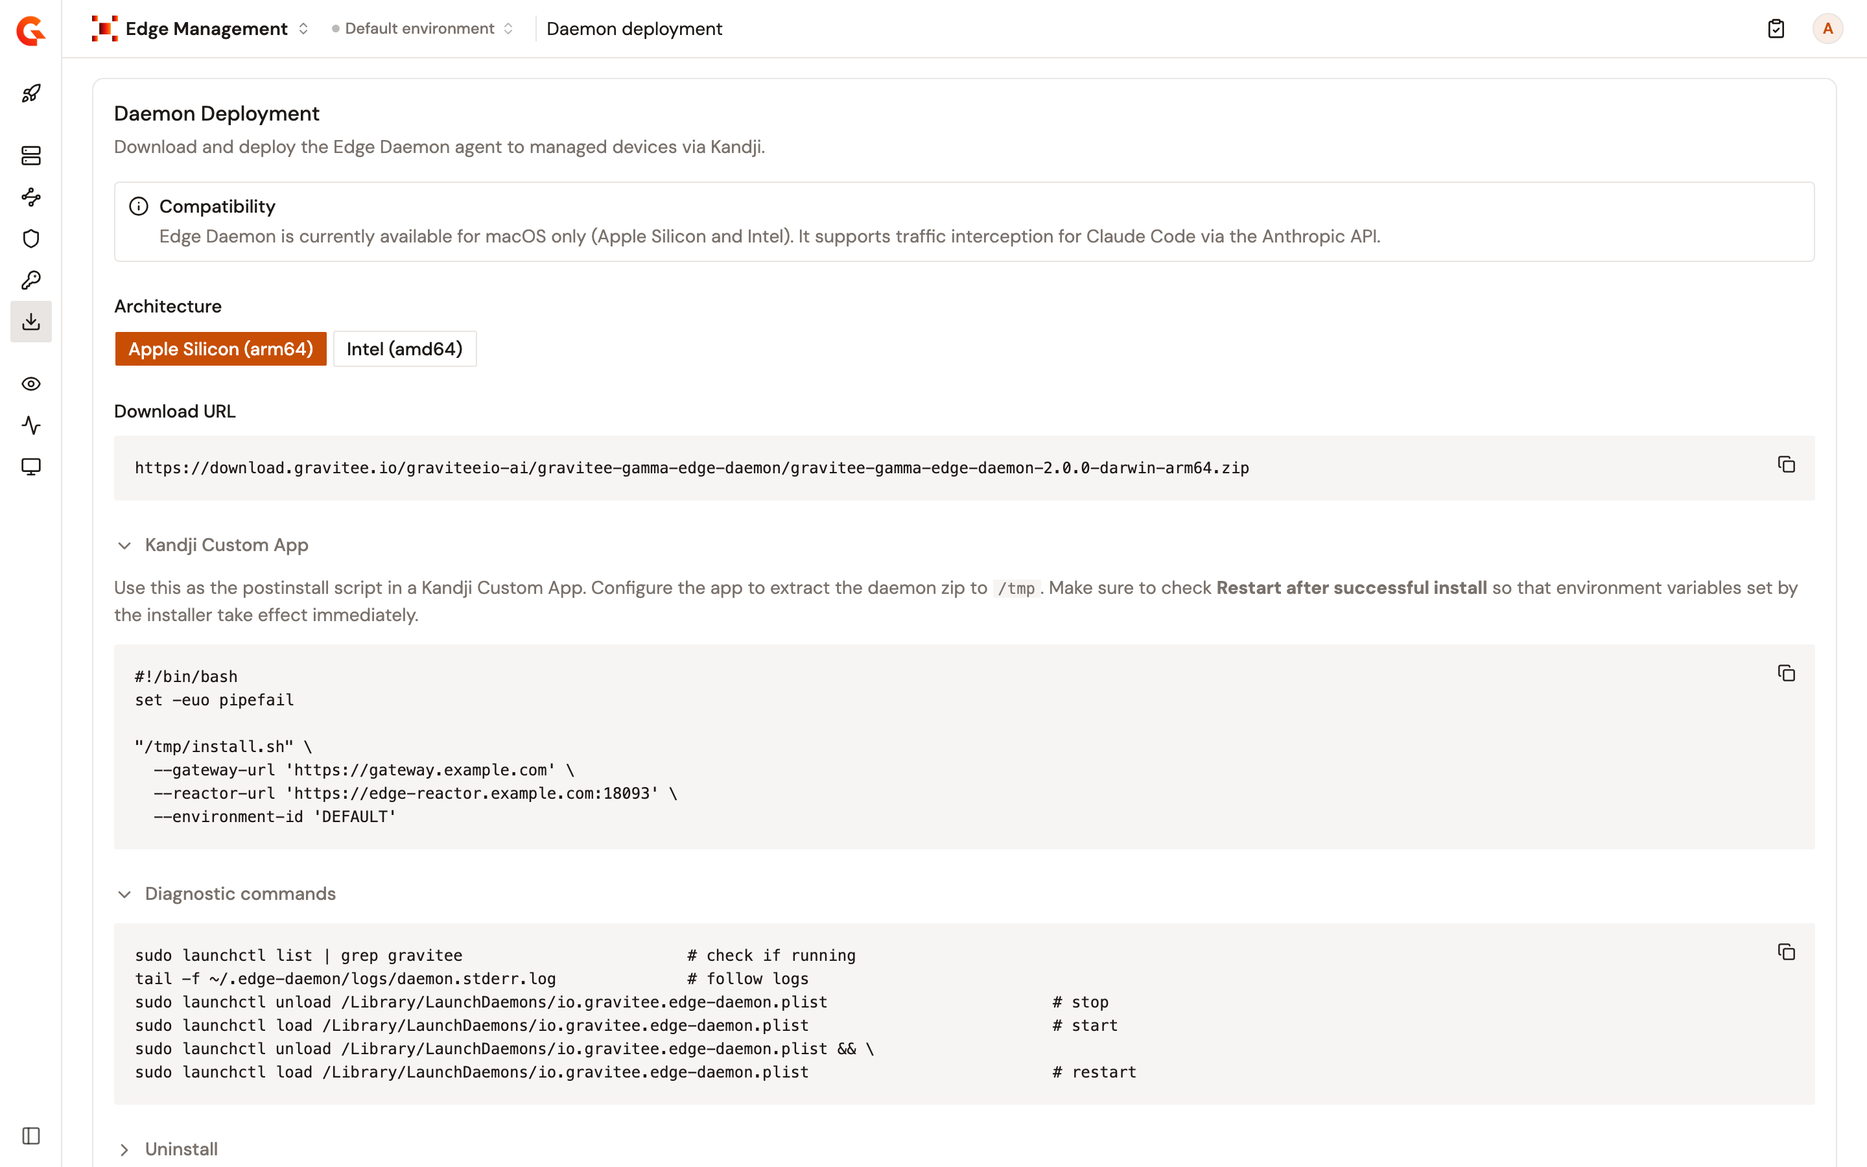
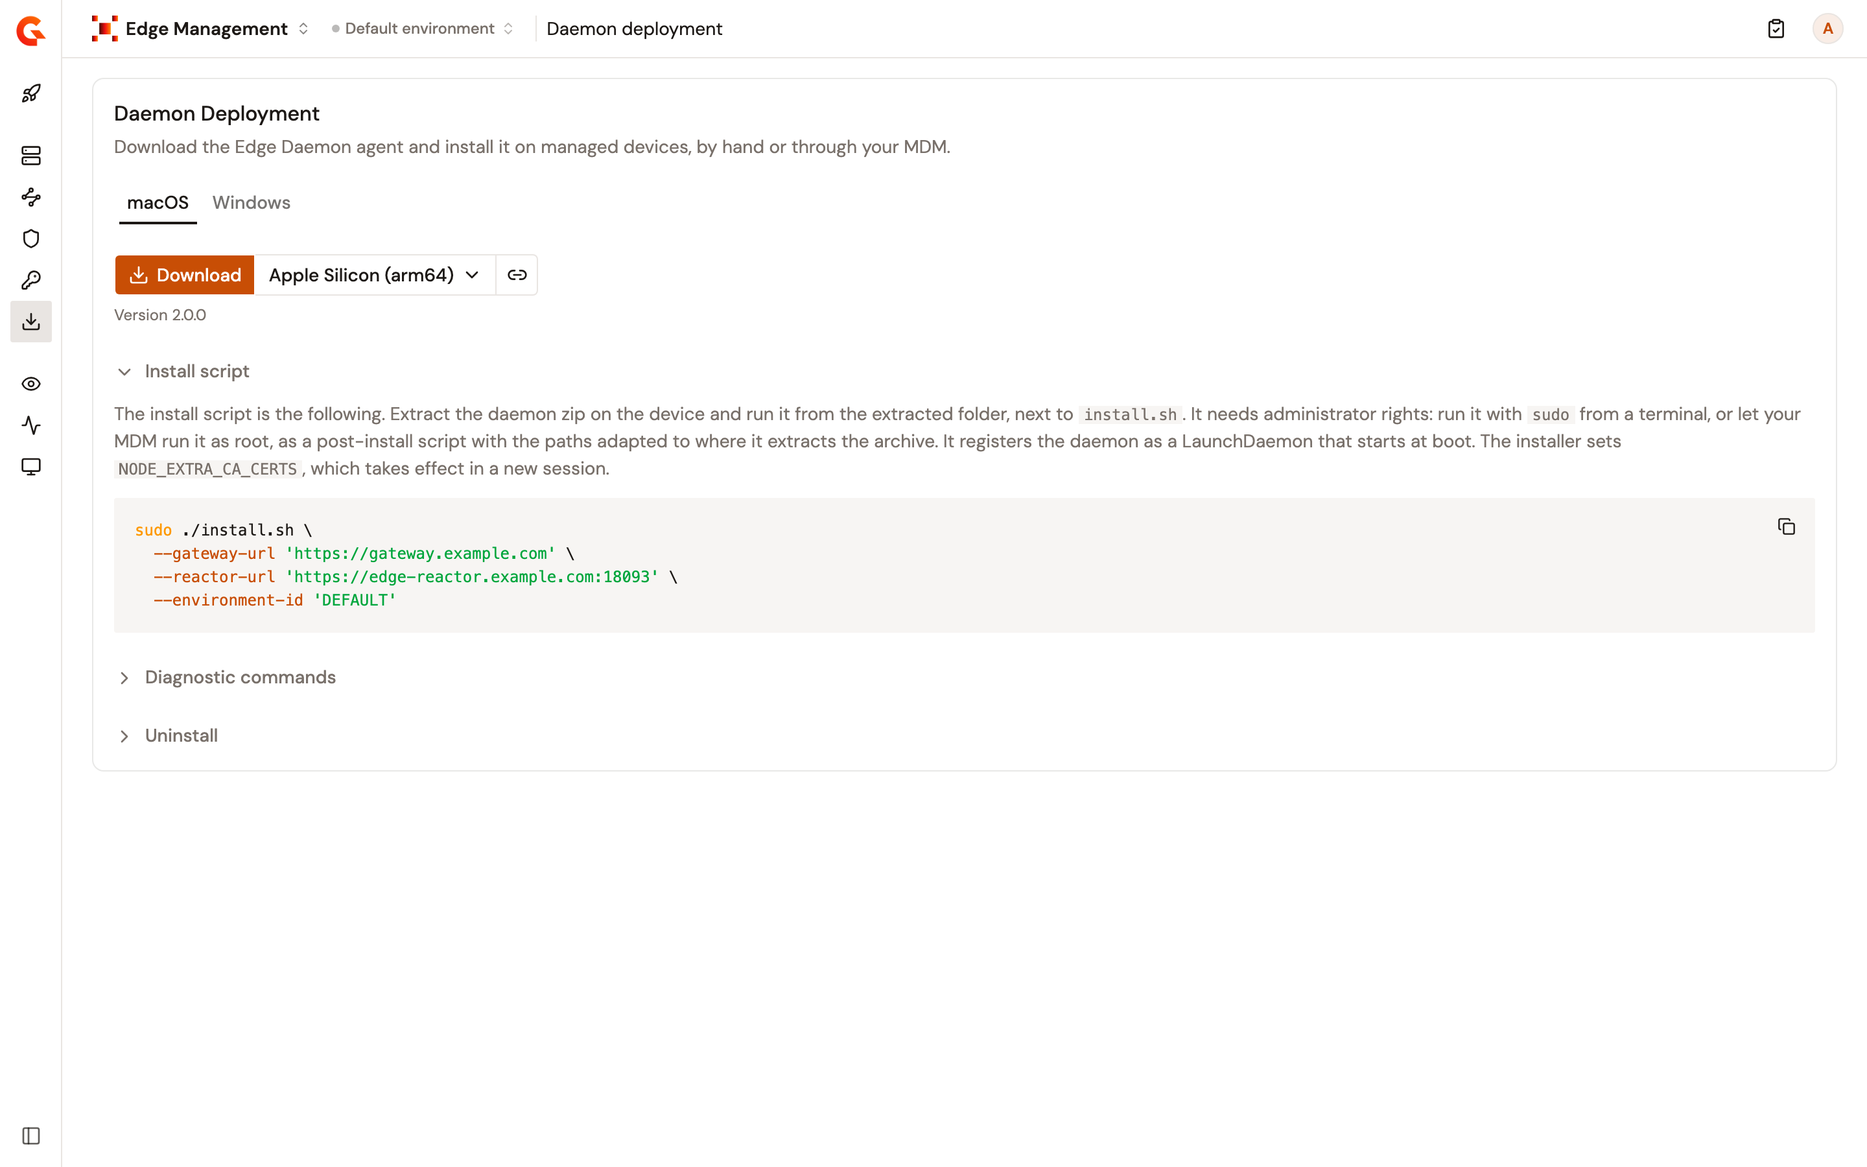
docs(gamma): install the Edge Daemon on Windows (EDGE-48)
Add the Windows install page for the Edge Daemon, the Windows tab of
the Daemon deployment page, and the 4.14 release notes entry. Update the
pages that said the daemon runs on macOS only.

Squashed with:
- docs(gamma): apply the Windows installer facts to the Edge Daemon page (EDGE-48)

diff --git a/docs/gamma/4.14/edge-management/connect/install-edge-daemon-on-windows.md b/docs/gamma/4.14/edge-management/connect/install-edge-daemon-on-windows.md
@@ -1,0 +1,115 @@
+---
+hidden: false
+noIndex: false
+description: Install the Gamma Edge Daemon on Windows devices, by hand or through your MDM. Download the daemon and run the install command that Edge Management generates.
+---
+
+# Install the Edge Daemon on Windows
+
+Install the Edge Daemon on the Windows devices of your fleet, by hand or through your MDM. The **Windows** tab of the **Daemon deployment** page generates the download link of the daemon and its install command for you, with the gateway addresses and the ID of the environment filled in.
+
+For an overview of the Edge Daemon, see the [Edge Management overview](../get-started/edge-management-overview.md). To create the configuration of the environment first, see [Set up Edge Management](set-up-edge-management.md). For macOS devices, see [Configure Iru to deploy the Edge Daemon](configure-kandji-daemon.md).
+
+## Prerequisites
+
+Ensure the following are in place before continuing:
+
+* Access to a running Gamma console with Edge Management enabled.
+* An Edge Management configuration already created for the environment. See [Set up Edge Management](set-up-edge-management.md).
+* Devices that run Windows, on x64 or Arm.
+* Administrator rights on the devices, or an MDM that runs a post-install script as SYSTEM.
+* The gateway-side endpoints reachable from your devices. See [Gateway-side requirements](../get-started/edge-management-overview.md#gateway-side-requirements).
+
+To install the Edge Daemon on Windows, complete the following steps:
+
+1. [Open the Daemon deployment page](#open-the-daemon-deployment-page)
+2. [Download the daemon](#download-the-daemon)
+3. [Run the install command](#run-the-install-command)
+4. [Verify the installation](#verification)
+
+## Open the Daemon deployment page
+
+1. In the Gamma console, open **Edge Management**.
+2. Click **Daemon deployment**.
+3. Click the **Windows** tab.
+
+<figure><img src="../.gitbook/assets/edge-deploy-windows.png" alt="The Windows tab of the Daemon deployment page, with the Download button, the architecture menu, the version of the daemon, the install command with the gateway addresses and the environment ID, and the collapsed Diagnostic commands and Uninstall sections"><figcaption><p>The Windows tab generates the download link and the install command.</p></figcaption></figure>
+
+## Download the daemon
+
+1. In the menu next to **Download**, select the architecture that matches your devices: **x64 (amd64)** or **Arm (arm64)**.
+2. Click **Download** to fetch the daemon package, or click the link button next to the menu to copy its URL. The version of the daemon shows under the button.
+
+Here is an example of the link for x64:
+
+```text
+https://download.gravitee.io/graviteeio-ai/gravitee-gamma-edge-daemon/gravitee-gamma-edge-daemon-2.0.0-windows-amd64.zip
+```
+
+## Run the install command
+
+Under **Install script**, the page generates the install command with the Gateway URL, the Reactor URL, and the ID of the environment filled in. Once mTLS is on, on the **Daemon authentication** page, the command also passes the certificate of your fleet and its private key, as files next to `install.ps1`. The command runs from the folder where the daemon package is extracted, and looks like the following example:
+
+```powershell
+# No sudo on Windows: run this from PowerShell opened as Administrator, in the extracted folder
+powershell -ExecutionPolicy Bypass -File .\install.ps1 `
+  -GatewayUrl 'https://gateway.example.com' `
+  -ReactorUrl 'https://edge-reactor.example.com:18093' `
+  -EnvironmentId 'DEFAULT' `
+  -ClientCert '.\client.crt' `
+  -ClientKey '.\client.key' `
+  # -ReactorCa '.\reactor-ca.crt'   # only if the reactor certificate is signed by a private CA
+```
+
+To install the daemon by hand, complete the following steps on each device:
+
+1. Extract the daemon package.
+2. If mTLS is on, put the certificate of your fleet and its private key in the extracted folder, next to `install.ps1`, as `client.crt` and `client.key`. If the Edge Reactor uses a private certificate authority, add that certificate as `reactor-ca.crt` too, and uncomment the last line of the command. See [Configure daemon authentication](configure-daemon-authentication.md#turn-on-mtls).
+3. Open PowerShell as Administrator, and go to the extracted folder.
+4. Run the command that you copied from the page.
+
+To install the daemon through your MDM, have it run the command as SYSTEM, as a post-install script, with the paths adapted to where it extracts the package.
+
+The installer registers the daemon as a Windows service that starts at boot. If the daemon is already installed on the device, the installer keeps its existing configuration. To apply new gateway addresses, another environment, or mTLS to an installed daemon, remove it with the uninstall command, then install it again.
+
+{% hint style="warning" %}
+**Tell your users to open a new terminal, or to sign in again.** The installer sets `NODE_EXTRA_CA_CERTS` for every account of the device. After an install from PowerShell, Claude Code started from a new terminal picks it up. After an install that your MDM runs as SYSTEM, your users get it at their next sign-in.
+
+If the device already sets another `NODE_EXTRA_CA_CERTS` for every account, the installer replaces it, and the uninstall command puts it back.
+{% endhint %}
+
+For example, the page shows one of the following alerts instead of the command:
+
+* **This environment cannot be installed from a script**: the ID of the environment holds a character other than letters, digits, hyphens, and underscores, which the installer doesn't accept.
+* **This URL cannot be passed to the Windows installer**: the Gateway URL or the Reactor URL holds a space or a double quote. Correct the address on the **Gateway** page. See [Change the gateway addresses](set-up-edge-management.md#change-the-gateway-addresses).
+
+## Check or remove the daemon
+
+The collapsible **Diagnostic commands** section lists the commands to check that the daemon service runs, to stop and start the service, and to list the DNS rules that the daemon installed. Run them from PowerShell as Administrator. The daemon writes its log to `%ProgramData%\Gravitee\EdgeDaemon\logs\daemon.log`.
+
+The collapsible **Uninstall** section gives the command that removes the daemon from a device. Run it from PowerShell as Administrator, in the extracted daemon folder:
+
+```powershell
+powershell -ExecutionPolicy Bypass -File .\install.ps1 -Uninstall
+```
+
+## Known limitation
+
+On a device that receives NRPT rules through Group Policy, Windows may ignore the DNS rules that the daemon installs. The intercepted domains are then not redirected to the daemon, and the AI traffic of the device bypasses the gateway. When the daemon finds such rules on the device, its log shows the following line:
+
+```text
+Group Policy defines NRPT rules: Windows may ignore the daemon's local rules, and intercepted domains may not be redirected
+```
+
+## Verification
+
+To verify the Edge Daemon is working as expected, follow these steps:
+
+1. In the Gamma console, open **Edge Management**.
+2. Click **Devices**.
+3. Confirm that your devices report as **Active**. See [Monitor your devices](../observe/monitor-devices.md).
+
+## Next steps
+
+* **Connect AI tools.** Check what, if anything, you have to do on a device. See [Connect Claude Code to the Edge Daemon](../connect-claude-code-to-daemon.md).
+* **Watch the traffic.** See [Monitor proxied traffic](../observe/monitor-proxied-traffic.md).

diff --git a/docs/gamma/4.14/platform-management/gamma-release-notes.md b/docs/gamma/4.14/platform-management/gamma-release-notes.md
@@ -13,7 +13,7 @@ For release and end-of-life dates, see [Support Model](https://documentation.gra
 * **Agent Management**: Add the **AWS Lambda** and **Data Cache Policy** policies to LLM Proxies, set up alerts for MCP Proxies, import MCP servers that the control plane can't reach, and encrypt the dynamic properties of LLM, MCP, and A2A Proxies. A2A Proxies gain a **CORS** page. Human In the Lead holds MCP tool calls until a person approves or rejects them.
 * **API Management**: Encrypt the dynamic properties of API proxies, group their analytics with path mappings, design flows on API Products in a Policy Studio, configure the resources of API Products, and secure API Products with OAuth2 plans.
 * **Authorization Management**: Manage PDP gateways, schema documents, entities, and policies as code, through the Automation API, as Kubernetes resources, and with Terraform.
-* **Edge Management**: Choose how Edge Daemons authenticate to the Edge Reactor, apply OAuth2 plans to intercepted routes, and edit gateway addresses after the guided setup.
+* **Edge Management**: Choose how Edge Daemons authenticate to the Edge Reactor, apply OAuth2 plans to intercepted routes, edit gateway addresses after the guided setup, and install the Edge Daemon on Windows devices.
 * **Event Stream Management**: Use registered Clusters in Message APIs, bound the metadata requests that the gateway sends to its brokers, disable broker hostname verification over SSL, and encrypt the dynamic properties of Kafka Services and Message APIs.
 * **Platform Management**: Encrypt the sensitive values of environment dictionaries, and renew the shared API key of an application with a value you choose.
 
@@ -197,6 +197,7 @@ Edge Management adds the following in 4.14:
 * **Daemon authentication**: Edge Daemons identify themselves to the Edge Reactor keyless, with mTLS and the certificates of your fleet, or both.
 * **OAuth2 plans**: the routes of an intercepted agent take an OAuth2 plan of their target API, so that each developer signs in with your identity provider.
 * **Gateway addresses**: the guided setup fills in the gateway addresses that your installation proposes, the addresses stay editable after the setup, and one gateway serves the Edge Management configuration of several environments.
+* **Windows devices**: the **Daemon deployment** page has a **Windows** tab, with the download of the Edge Daemon for Windows and its install command.
 
 #### Daemon authentication
 
@@ -221,8 +222,15 @@ Edge Management adds the following in 4.14:
 * The **Gateway** page now saves a change to either address with **Save & Deploy**. A change only applies to the daemons installed after it, and a warning under the changed field says so. Daemons already installed keep the addresses they were installed with.
 * When the installation proposes an address other than the one in the field, the **Gateway** page shows it under the field, with where it comes from.
 * The **Reactor URL** that the installation proposes is the address that you set for the environment, or else the address that you set for every environment, which the Helm chart takes from its Edge ingress. See [Propose the Reactor URL to Edge Management](../edge-management/connect/configure-edge-ingress.md#propose-the-reactor-url-to-edge-management).
-* The Kandji script of the **Daemon deployment** page passes the ID of the environment, so that each daemon gets the configuration of its own environment.
+* The install command of the **Daemon deployment** page passes the ID of the environment, so that each daemon gets the configuration of its own environment.
 * See [Change the gateway addresses](../edge-management/connect/set-up-edge-management.md#change-the-gateway-addresses).
+
+#### Edge Daemon on Windows
+
+* The **Daemon deployment** page has a **macOS** tab and a **Windows** tab. Each tab has the download of the daemon for each architecture of its platform, the install command, and the diagnostic and uninstall commands. The Windows download comes in **x64 (amd64)** and **Arm (arm64)**.
+* On Windows, the install command runs from PowerShell as Administrator, or as a post-install script that your MDM runs as SYSTEM. The installer registers the daemon as a Windows service that starts at boot.
+* The page no longer names Kandji. Run the install command by hand, or as the post-install script of your MDM.
+* See [Install the Edge Daemon on Windows](../edge-management/connect/install-edge-daemon-on-windows.md).
 
 #### Changes to the Edge Reactor
 

diff --git a/docs/gamma/4.14/edge-management/connect/configure-kandji-daemon.md b/docs/gamma/4.14/edge-management/connect/configure-kandji-daemon.md
@@ -11,7 +11,7 @@ Deploy the Edge Daemon to your device fleet with Iru (formerly Kandji). The **Da
 For an overview of the Edge Daemon, see the [Edge Management overview](../get-started/edge-management-overview.md). To create the configuration of the environment first, see [Set up Edge Management](set-up-edge-management.md).
 
 {% hint style="info" %}
-**Compatibility.** This page covers macOS devices, on Apple Silicon and Intel. The Edge Daemon supports traffic interception for Claude Code through the Anthropic API.
+**Compatibility.** This page covers macOS devices, on Apple Silicon and Intel. The Edge Daemon supports traffic interception for Claude Code through the Anthropic API. For Windows devices, see [Install the Edge Daemon on Windows](install-edge-daemon-on-windows.md).
 {% endhint %}
 
 ## Prerequisites
@@ -36,7 +36,7 @@ To deploy the Edge Daemon with Iru, complete the following steps:
 1. In the Gamma console, open **Edge Management**.
 2. Click **Daemon deployment**.
 
-<figure><img src="../.gitbook/assets/edge-deploy-kandji.png" alt="The Daemon deployment page with the architecture selector, the download URL, the Kandji Custom App postinstall script with the gateway addresses and the environment ID, and the Diagnostic commands section"><figcaption><p>The Daemon deployment page generates the download URL and the Kandji post-install script.</p></figcaption></figure>
+<figure><img src="../.gitbook/assets/edge-deploy-kandji.png" alt="The macOS tab of the Daemon deployment page, with the Download button, the architecture menu, the version of the daemon, the install command with the gateway addresses and the environment ID, and the collapsed Diagnostic commands and Uninstall sections"><figcaption><p>The macOS tab generates the download link and the install command.</p></figcaption></figure>
 
 ## Download the daemon
 

diff --git a/docs/gamma/4.14/edge-management/connect/configure-daemon-authentication.md b/docs/gamma/4.14/edge-management/connect/configure-daemon-authentication.md
@@ -70,7 +70,7 @@ Install each daemon with the following flags of its installation script:
 * `--client-key`: The private key of that certificate.
 * `--reactor-ca`: The certificate authority that signed the certificate of the Edge Reactor listener, so that the daemon trusts the listener. Pass it only when a private certificate authority signs that certificate. For a self-signed certificate, pass the certificate itself.
 
-Once mTLS is on, the install command under **Install script** on the **Daemon deployment** page passes `--client-cert` and `--client-key`, with `--reactor-ca` commented out on its last line. See [Configure Iru to deploy the Edge Daemon](configure-kandji-daemon.md#create-the-kandji-custom-app).
+Once mTLS is on, the install command of the **macOS** tab, under **Install script** on the **Daemon deployment** page, passes `--client-cert` and `--client-key`, with `--reactor-ca` commented out on its last line. See [Configure Iru to deploy the Edge Daemon](configure-kandji-daemon.md#create-the-kandji-custom-app). On the **Windows** tab, the command passes `-ClientCert` and `-ClientKey`, with `-ReactorCa` commented out on its last line. See [Install the Edge Daemon on Windows](install-edge-daemon-on-windows.md#run-the-install-command).
 
 ## Turn off keyless
 

diff --git a/docs/gamma/4.14/edge-management/get-started/edge-management-overview.md b/docs/gamma/4.14/edge-management/get-started/edge-management-overview.md
@@ -73,10 +73,10 @@ One gateway serves the Edge Management configuration of several environments, an
 
 ## Compatibility
 
-The Edge Daemon is available for macOS only, on Apple Silicon and Intel. It supports interception for Claude Code through the Anthropic API.
+The Edge Daemon is available for macOS, on Apple Silicon and Intel, and for Windows, on x64 and Arm. It supports interception for Claude Code through the Anthropic API.
 
 ## Next steps
 
 * **Set up the environment.** Create the configuration through the guided setup. See [Set up Edge Management](../connect/set-up-edge-management.md).
-* **Deploy the Edge Daemon.** Distribute the daemon to your device fleet with Iru (formerly Kandji). See [Configure Iru to deploy the Edge Daemon](../connect/configure-kandji-daemon.md).
+* **Deploy the Edge Daemon.** Distribute the daemon to your device fleet with Iru (formerly Kandji). See [Configure Iru to deploy the Edge Daemon](../connect/configure-kandji-daemon.md). For Windows devices, see [Install the Edge Daemon on Windows](../connect/install-edge-daemon-on-windows.md).
 * **Connect Claude Code.** Check what, if anything, you have to do on the device. See [Connect Claude Code to the Edge Daemon](../connect-claude-code-to-daemon.md).

diff --git a/docs/gamma/4.14/edge-management/connect/README.md b/docs/gamma/4.14/edge-management/connect/README.md
@@ -15,6 +15,7 @@ The **Configuration** group of the sidebar holds **Gateway**, **Interception**, 
 * [**Secure the Edge Reactor listener**](secure-the-edge-reactor-listener.md). Run the listener over TLS and ask the daemons for a certificate. Serve several environments from one gateway, and deploy the Edge API on gateways with sharding tags.
 * [**Configure Edge Ingress**](configure-edge-ingress.md). Expose the Edge Reactor port when the gateway runs on Kubernetes, and propose its address to Edge Management.
 * [**Configure Iru to deploy the Edge Daemon**](configure-kandji-daemon.md). Use Iru (formerly Kandji) to deploy the Edge Daemon across your device fleet.
+* [**Install the Edge Daemon on Windows**](install-edge-daemon-on-windows.md). Install the Edge Daemon on Windows devices, by hand or through your MDM.
 * [**Connect Claude Code to the Edge Daemon**](../connect-claude-code-to-daemon.md). What to do on a device, and how to confirm that interception works.
 
 Three of these pages have no sidebar item: Secure the Edge Reactor listener, Configure Edge Ingress, and Connect Claude Code to the Edge Daemon.

diff --git a/docs/gamma/4.14/edge-management/connect-claude-code-to-daemon.md b/docs/gamma/4.14/edge-management/connect-claude-code-to-daemon.md
@@ -14,7 +14,7 @@ This page explains why, and how to confirm that interception works.
 
 ## Before you start
 
-* The Edge Daemon is deployed and running on the device. See [Configure Iru to deploy the Edge Daemon](connect/configure-kandji-daemon.md).
+* The Edge Daemon is deployed and running on the device. See [Configure Iru to deploy the Edge Daemon](connect/configure-kandji-daemon.md) for macOS, or [Install the Edge Daemon on Windows](connect/install-edge-daemon-on-windows.md).
 * Claude Code is installed on the same device.
 * **Claude Code** is configured as an intercepted agent, with a target API on its route. See [Configure interception](connect/configure-edge-management.md).
 

diff --git a/docs/gamma/4.14/SUMMARY.md b/docs/gamma/4.14/SUMMARY.md
@@ -469,6 +469,7 @@
   * [Secure the Edge Reactor listener](edge-management/connect/secure-the-edge-reactor-listener.md)
   * [Configure Edge Ingress](edge-management/connect/configure-edge-ingress.md)
   * [Configure Iru to deploy the Edge Daemon](edge-management/connect/configure-kandji-daemon.md)
+  * [Install the Edge Daemon on Windows](edge-management/connect/install-edge-daemon-on-windows.md)
   * [Connect Claude Code to the Edge Daemon](edge-management/connect-claude-code-to-daemon.md)
 * [Observe](edge-management/observe/README.md)
   * [Monitor detected shadow AI](edge-management/observe/monitor-shadow-ai-traffic.md)

diff --git a/docs/gamma/4.14/edge-management/SUMMARY.md b/docs/gamma/4.14/edge-management/SUMMARY.md
@@ -13,6 +13,7 @@
   * [Secure the Edge Reactor listener](connect/secure-the-edge-reactor-listener.md)
   * [Configure Edge Ingress](connect/configure-edge-ingress.md)
   * [Configure Iru to deploy the Edge Daemon](connect/configure-kandji-daemon.md)
+  * [Install the Edge Daemon on Windows](connect/install-edge-daemon-on-windows.md)
   * [Connect Claude Code to the Edge Daemon](connect-claude-code-to-daemon.md)
 * [Observe](observe/README.md)
   * [Monitor detected shadow AI](observe/monitor-shadow-ai-traffic.md)
